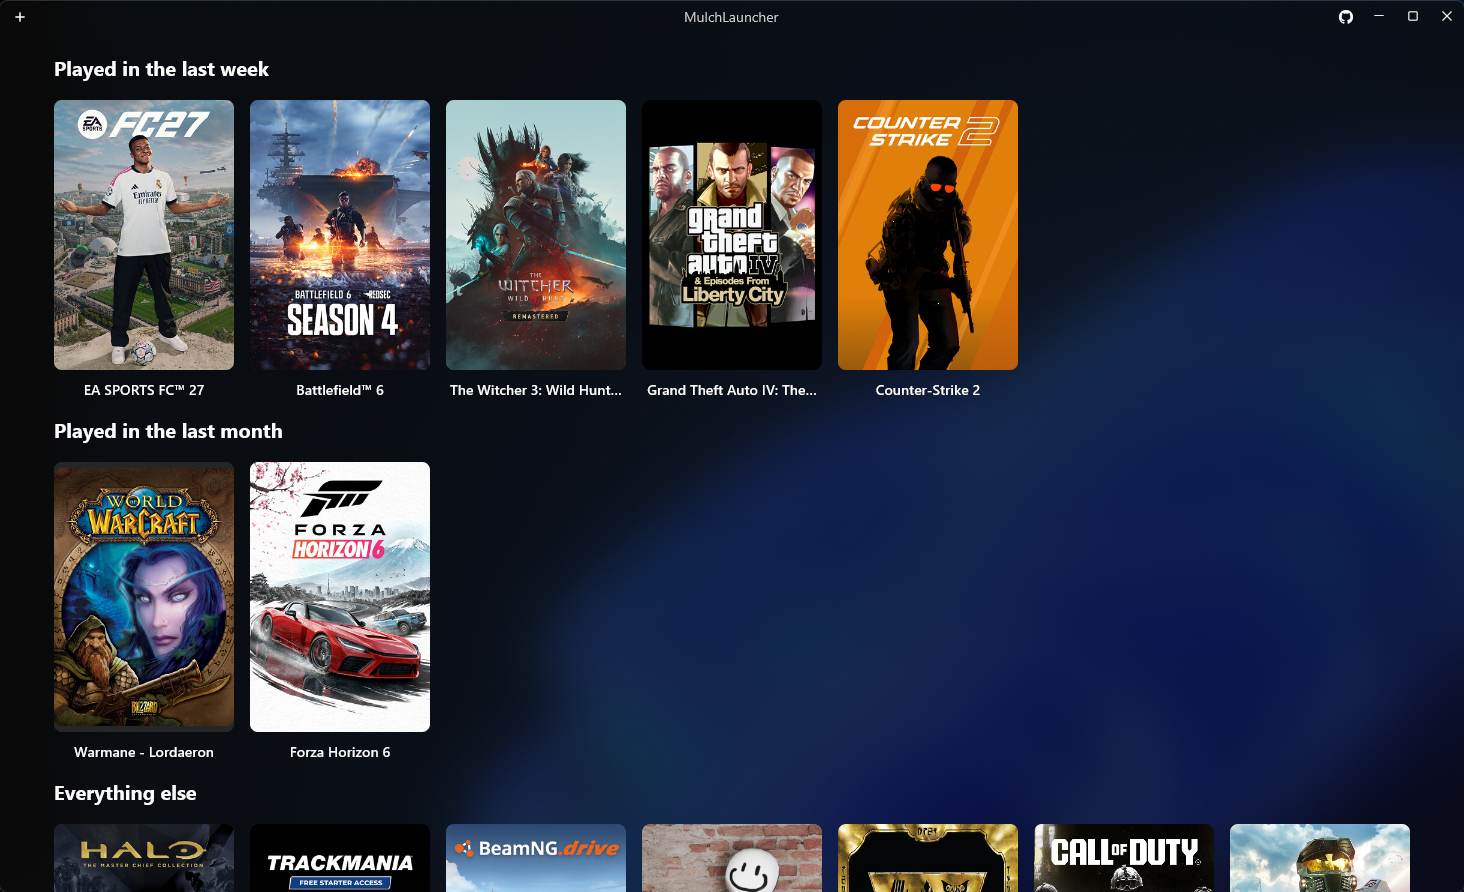
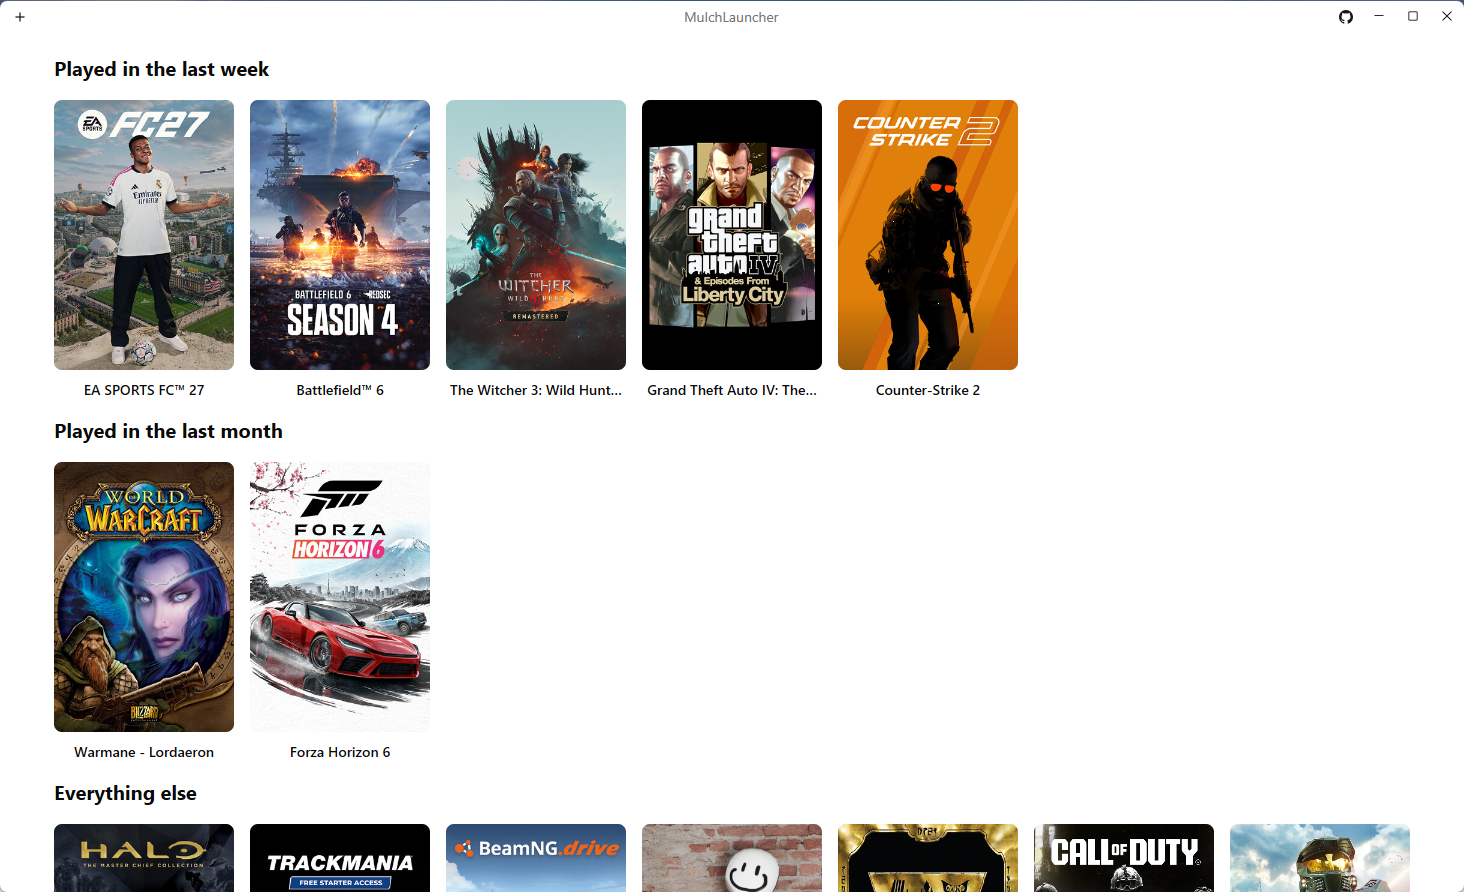
0.1.1: follow Windows light/dark again (opaque); re-listed on the Store as a game
- Light or dark follows Windows again, with the smooth fade; the window stays
  opaque.
- Certification wanted a game category, so MulchLauncher is now a Store game
  (new Store ID 9N1BPQC9G6ZW); README and download page point there.
- Search terms without other products' names; new library screenshot.

diff --git a/docs/index.html b/docs/index.html
@@ -42,7 +42,7 @@
     <h1>MulchLauncher</h1>
     <p>One launcher for all your games.</p>
     <div class="get">
-    <a class="store" href="https://apps.microsoft.com/detail/9NQK96N5M6PH?mode=direct">
+    <a class="store" href="https://apps.microsoft.com/detail/9N1BPQC9G6ZW?mode=direct">
       <picture>
         <source media="(prefers-color-scheme: dark)" srcset="https://get.microsoft.com/images/en-us%20light.svg">
         <img src="https://get.microsoft.com/images/en-us%20dark.svg" alt="Get it from Microsoft">

diff --git a/src/ui.rs b/src/ui.rs
@@ -35,7 +35,7 @@ const REPO_URL: &str = "https://github.com/apotenza92/mulch-launcher";
 pub fn run(restore: Option<Restore>) {
     gpui_kit::application().with_assets(crate::assets::Assets).run(move |cx| {
         gpui_kit::init(cx);
-        Theme::change(ThemeMode::Dark, None, cx);
+        Theme::change(theme_mode(cx.window_appearance()), None, cx);
         finish_theme(cx);
 
         let options = WindowOptions {
@@ -74,7 +74,7 @@ pub fn run(restore: Option<Restore>) {
 pub fn run_installer() {
     gpui_kit::application().with_assets(crate::assets::Assets).run(move |cx| {
         gpui_kit::init(cx);
-        Theme::change(ThemeMode::Dark, None, cx);
+        Theme::change(theme_mode(cx.window_appearance()), None, cx);
         finish_theme(cx);
         let options = WindowOptions {
             titlebar: Some(TitlebarOptions { title: Some(APP_NAME.into()), ..TitleBar::title_bar_options() }),
@@ -286,6 +286,8 @@ struct MulchApp {
     action_clicked: bool,
     /// When each game was last played, for sorting most recent first.
     history: History,
+    /// A light/dark switch in progress: from, to, and the blend.
+    theme_fade: Option<(ThemeColor, ThemeColor, Tween)>,
     _subscriptions: Vec<Subscription>,
 }
 
@@ -319,6 +321,7 @@ impl MulchApp {
             launchers: Vec::new(),
             social: Vec::new(),
             add_panel: None,
+            theme_fade: None,
             hwnd: None,
             hovered_tile: None,
             scanning: false,
@@ -337,18 +340,22 @@ impl MulchApp {
             history: History::load(),
             // Coming back to the window (e.g. after playing): re-sort so the
             // game just played is first.
-            _subscriptions: vec![cx.observe_window_activation(window, |app, window, cx| {
-                app.active = window.is_window_active();
-                // An update waiting: restart as soon as the user moves on.
-                if !app.active && app.update_ready {
-                    app.restart_for_update(window, cx);
-                    return;
-                }
-                if app.active {
-                    app.resort(cx);
-                    app.check_for_changes(cx);
-                }
-            })],
+            _subscriptions: vec![
+                // Follow Windows switching between light and dark.
+                cx.observe_window_appearance(window, |app, window, cx| app.fade_theme(window, cx)),
+                cx.observe_window_activation(window, |app, window, cx| {
+                    app.active = window.is_window_active();
+                    // An update waiting: restart as soon as the user moves on.
+                    if !app.active && app.update_ready {
+                        app.restart_for_update(window, cx);
+                        return;
+                    }
+                    if app.active {
+                        app.resort(cx);
+                        app.check_for_changes(cx);
+                    }
+                }),
+            ],
         };
         app.apply_theme(window, cx);
         app.rescan(cx);
@@ -910,10 +917,38 @@ impl MulchApp {
         // A full-width layer, so the GitHub button can sit against the right edge.
         div().absolute().top_0().left_0().w_full().h(px(TITLE_BAR_HEIGHT)).child(left).child(github).into_any_element()
     }
-    /// Applies the app's dark theme.
+    /// Applies Windows' light or dark mode.
     fn apply_theme(&self, window: &mut Window, cx: &mut Context<Self>) {
-        Theme::change(ThemeMode::Dark, Some(window), cx);
+        Theme::change(theme_mode(window.appearance()), Some(window), cx);
         finish_theme(cx);
+    }
+
+    /// Switches to Windows' current light or dark mode, blending the colours over a moment.
+    fn fade_theme(&mut self, window: &mut Window, cx: &mut Context<Self>) {
+        let from = self
+            .theme_fade
+            .as_ref()
+            .map_or_else(|| cx.theme().colors, |(from, to, fade)| blend_colors(from, to, fade.now()));
+        self.apply_theme(window, cx);
+        let to = cx.theme().colors;
+        let fade = Tween { from: 0., to: 1., since: std::time::Instant::now(), duration: THEME_FADE, spring: false };
+        self.theme_fade = Some((from, to, fade));
+        Theme::global_mut(cx).colors = from;
+        cx.notify();
+    }
+
+    /// Steps a theme fade on (each frame while one is running).
+    fn step_theme_fade(&mut self, window: &mut Window, cx: &mut Context<Self>) {
+        let Some((from, to, fade)) = self.theme_fade else { return };
+        let colors = if fade.done() { to } else { blend_colors(&from, &to, fade.now()) };
+        let theme = Theme::global_mut(cx);
+        theme.colors = colors;
+        theme.tokens.background = colors.background.into();
+        if fade.done() {
+            self.theme_fade = None;
+        } else {
+            window.request_animation_frame();
+        }
     }
 
     /// How many games were played in the last week, the last month (but not
@@ -1222,7 +1257,8 @@ fn spring(t: f32) -> f32 {
     if t >= 1. { 1. } else { 1. - (-7. * t).exp() * (8. * t).cos() }
 }
 
-/// How long a removed game fades.
+/// How long a theme change blends, and a removed game fades.
+const THEME_FADE: std::time::Duration = std::time::Duration::from_millis(320);
 const LEAVE_DURATION: std::time::Duration = std::time::Duration::from_millis(260);
 /// How long after games first appear that tiles still enter one by one.
 const STAGGER_WINDOW: std::time::Duration = std::time::Duration::from_secs(2);
@@ -1305,6 +1341,48 @@ fn finish_theme(cx: &mut App) {
 /// color at exactly lpha (gpui's opacity multiplies the existing alpha instead).
 fn with_alpha(color: Hsla, alpha: f32) -> Hsla {
     Hsla { a: alpha, ..color }
+}
+
+/// Theme colours part-way between two themes (`t` from 0 to 1).
+fn blend_colors(from: &ThemeColor, to: &ThemeColor, t: f32) -> ThemeColor {
+    let mix = |a: Hsla, b: Hsla| {
+        let (a, b) = (Rgba::from(a), Rgba::from(b));
+        let m = |x: f32, y: f32| x + (y - x) * t;
+        Hsla::from(Rgba { r: m(a.r, b.r), g: m(a.g, b.g), b: m(a.b, b.b), a: m(a.a, b.a) })
+    };
+    let mut out = *to;
+    macro_rules! blend { ($($field:ident),*) => { $(out.$field = mix(from.$field, to.$field);)* } }
+    blend!(
+        background,
+        foreground,
+        muted,
+        muted_foreground,
+        popover,
+        popover_foreground,
+        border,
+        list_hover,
+        title_bar,
+        primary,
+        primary_foreground,
+        primary_hover,
+        secondary,
+        secondary_foreground,
+        secondary_hover,
+        accent,
+        accent_foreground,
+        danger,
+        ring,
+        input
+    );
+    out
+}
+
+/// Light or dark, following Windows.
+fn theme_mode(windows: WindowAppearance) -> ThemeMode {
+    match windows {
+        WindowAppearance::Dark | WindowAppearance::VibrantDark => ThemeMode::Dark,
+        _ => ThemeMode::Light,
+    }
 }
 
 /// Opening size, at the tile size: exactly 6 games across, and tall
@@ -1629,6 +1707,7 @@ fn run_action(action: &Action, name: &str, window: &mut Window, cx: &mut App) {
 impl Render for MulchApp {
     fn render(&mut self, window: &mut Window, cx: &mut Context<Self>) -> impl IntoElement {
         self.update_min_width(window);
+        self.step_theme_fade(window, cx);
         if Tween::tidy(&mut self.lifts) | Tween::tidy(&mut self.button_heights) | Tween::tidy_up(&mut self.leaving) {
             window.request_animation_frame();
         }

diff --git a/packaging/store/listing/listing.md b/packaging/store/listing/listing.md
@@ -20,23 +20,19 @@ None.
 
 ## Search terms (7 max)
 
+No other products' names (Store policy 10.1.3).
+
 1. game launcher
 2. game library
-3. steam
-4. epic games
-5. gog
-6. xbox
-7. battle.net
-
-(If Partner Center objects to third-party names as search terms, swap 3-7 for: games, library, launcher, pc games, organiser.)
+3. launcher
+4. pc games
+5. games
+6. library
+7. organiser
 
 ## Category
 
-Recommended: **Utilities & tools** (subcategory: none, or "Other" if required).
-
-Reason: MulchLauncher isn't a game, it's a tool for starting games you already have. Listing it under Games puts it among games, gives it game-specific requirements in certification, and invites the review question of what game is being sold. Utilities & tools describes what it does.
-
-Alternative if you'd rather it be found by people browsing games: Entertainment. Avoid Games > any subcategory.
+Listed as a **game** (MSIX or PWA game): certification counts a game launcher as having game functionality (policy 10.1.21), so it must be in a game category.
 
 ## Pricing and availability
 

diff --git a/README.md b/README.md
@@ -4,7 +4,7 @@
 
 <p align="center">One launcher for all your games.</p>
 
-<p align="center"><a href="https://apps.microsoft.com/detail/9NQK96N5M6PH?mode=direct"><img src="https://get.microsoft.com/images/en-us%20dark.svg" width="200" alt="Get it from Microsoft"></a></p>
+<p align="center"><a href="https://apps.microsoft.com/detail/9N1BPQC9G6ZW?mode=direct"><img src="https://get.microsoft.com/images/en-us%20dark.svg" width="200" alt="Get it from Microsoft"></a></p>
 
 <p align="center">Windows only, for now.</p>
 
